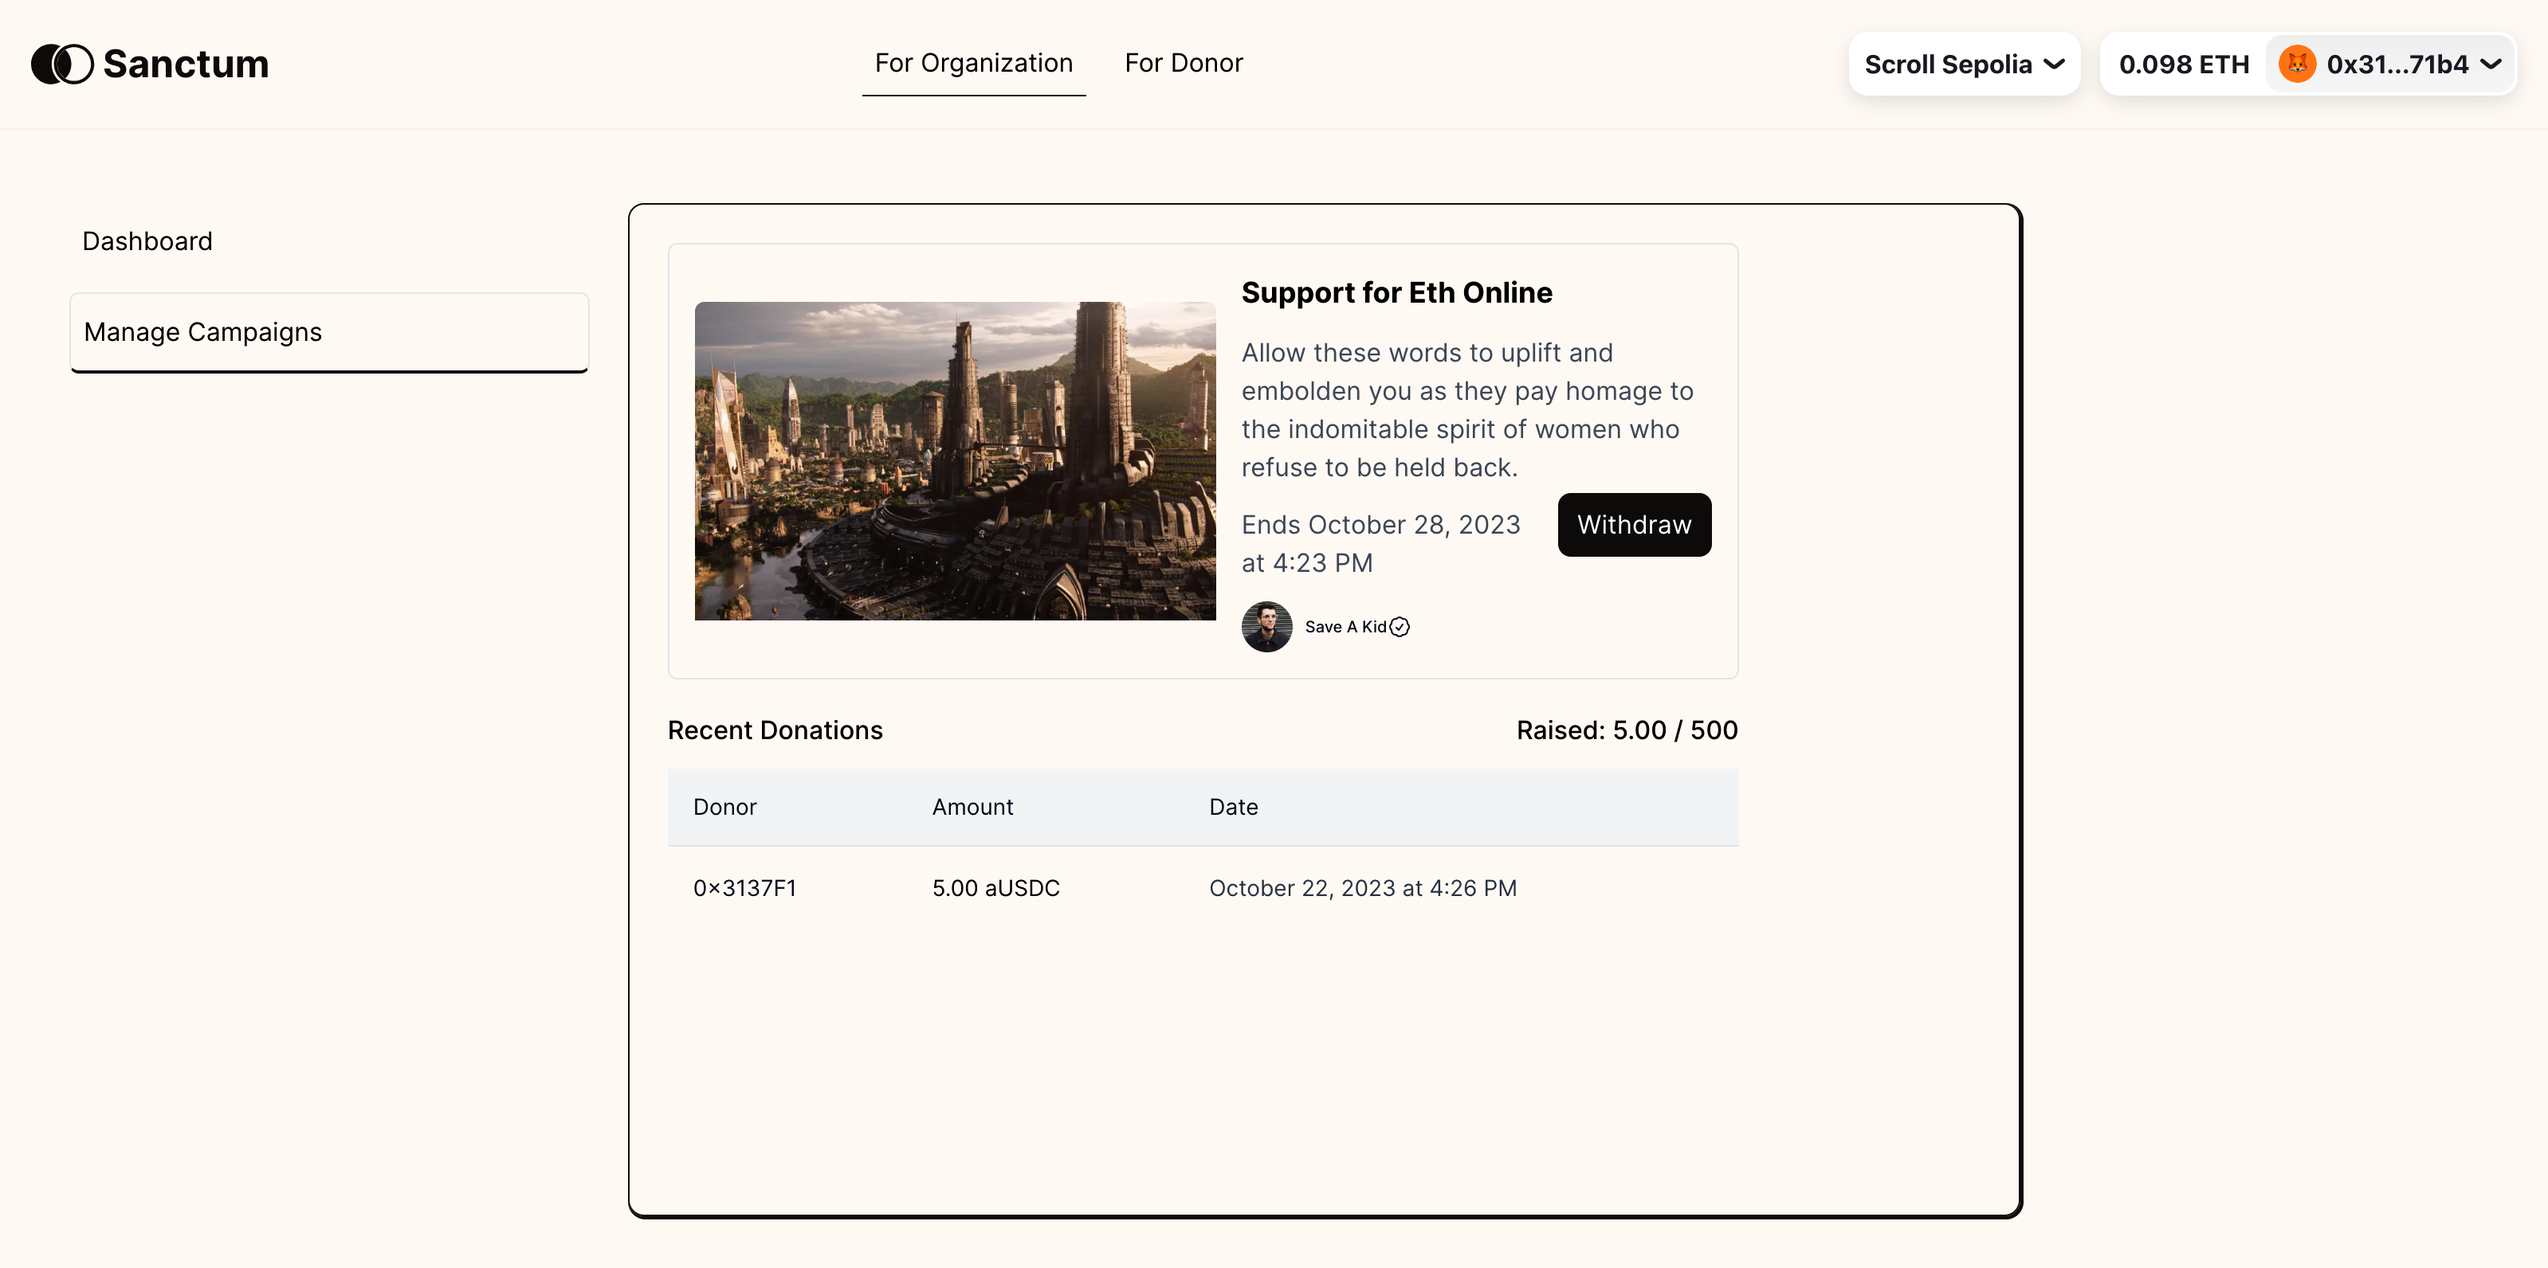
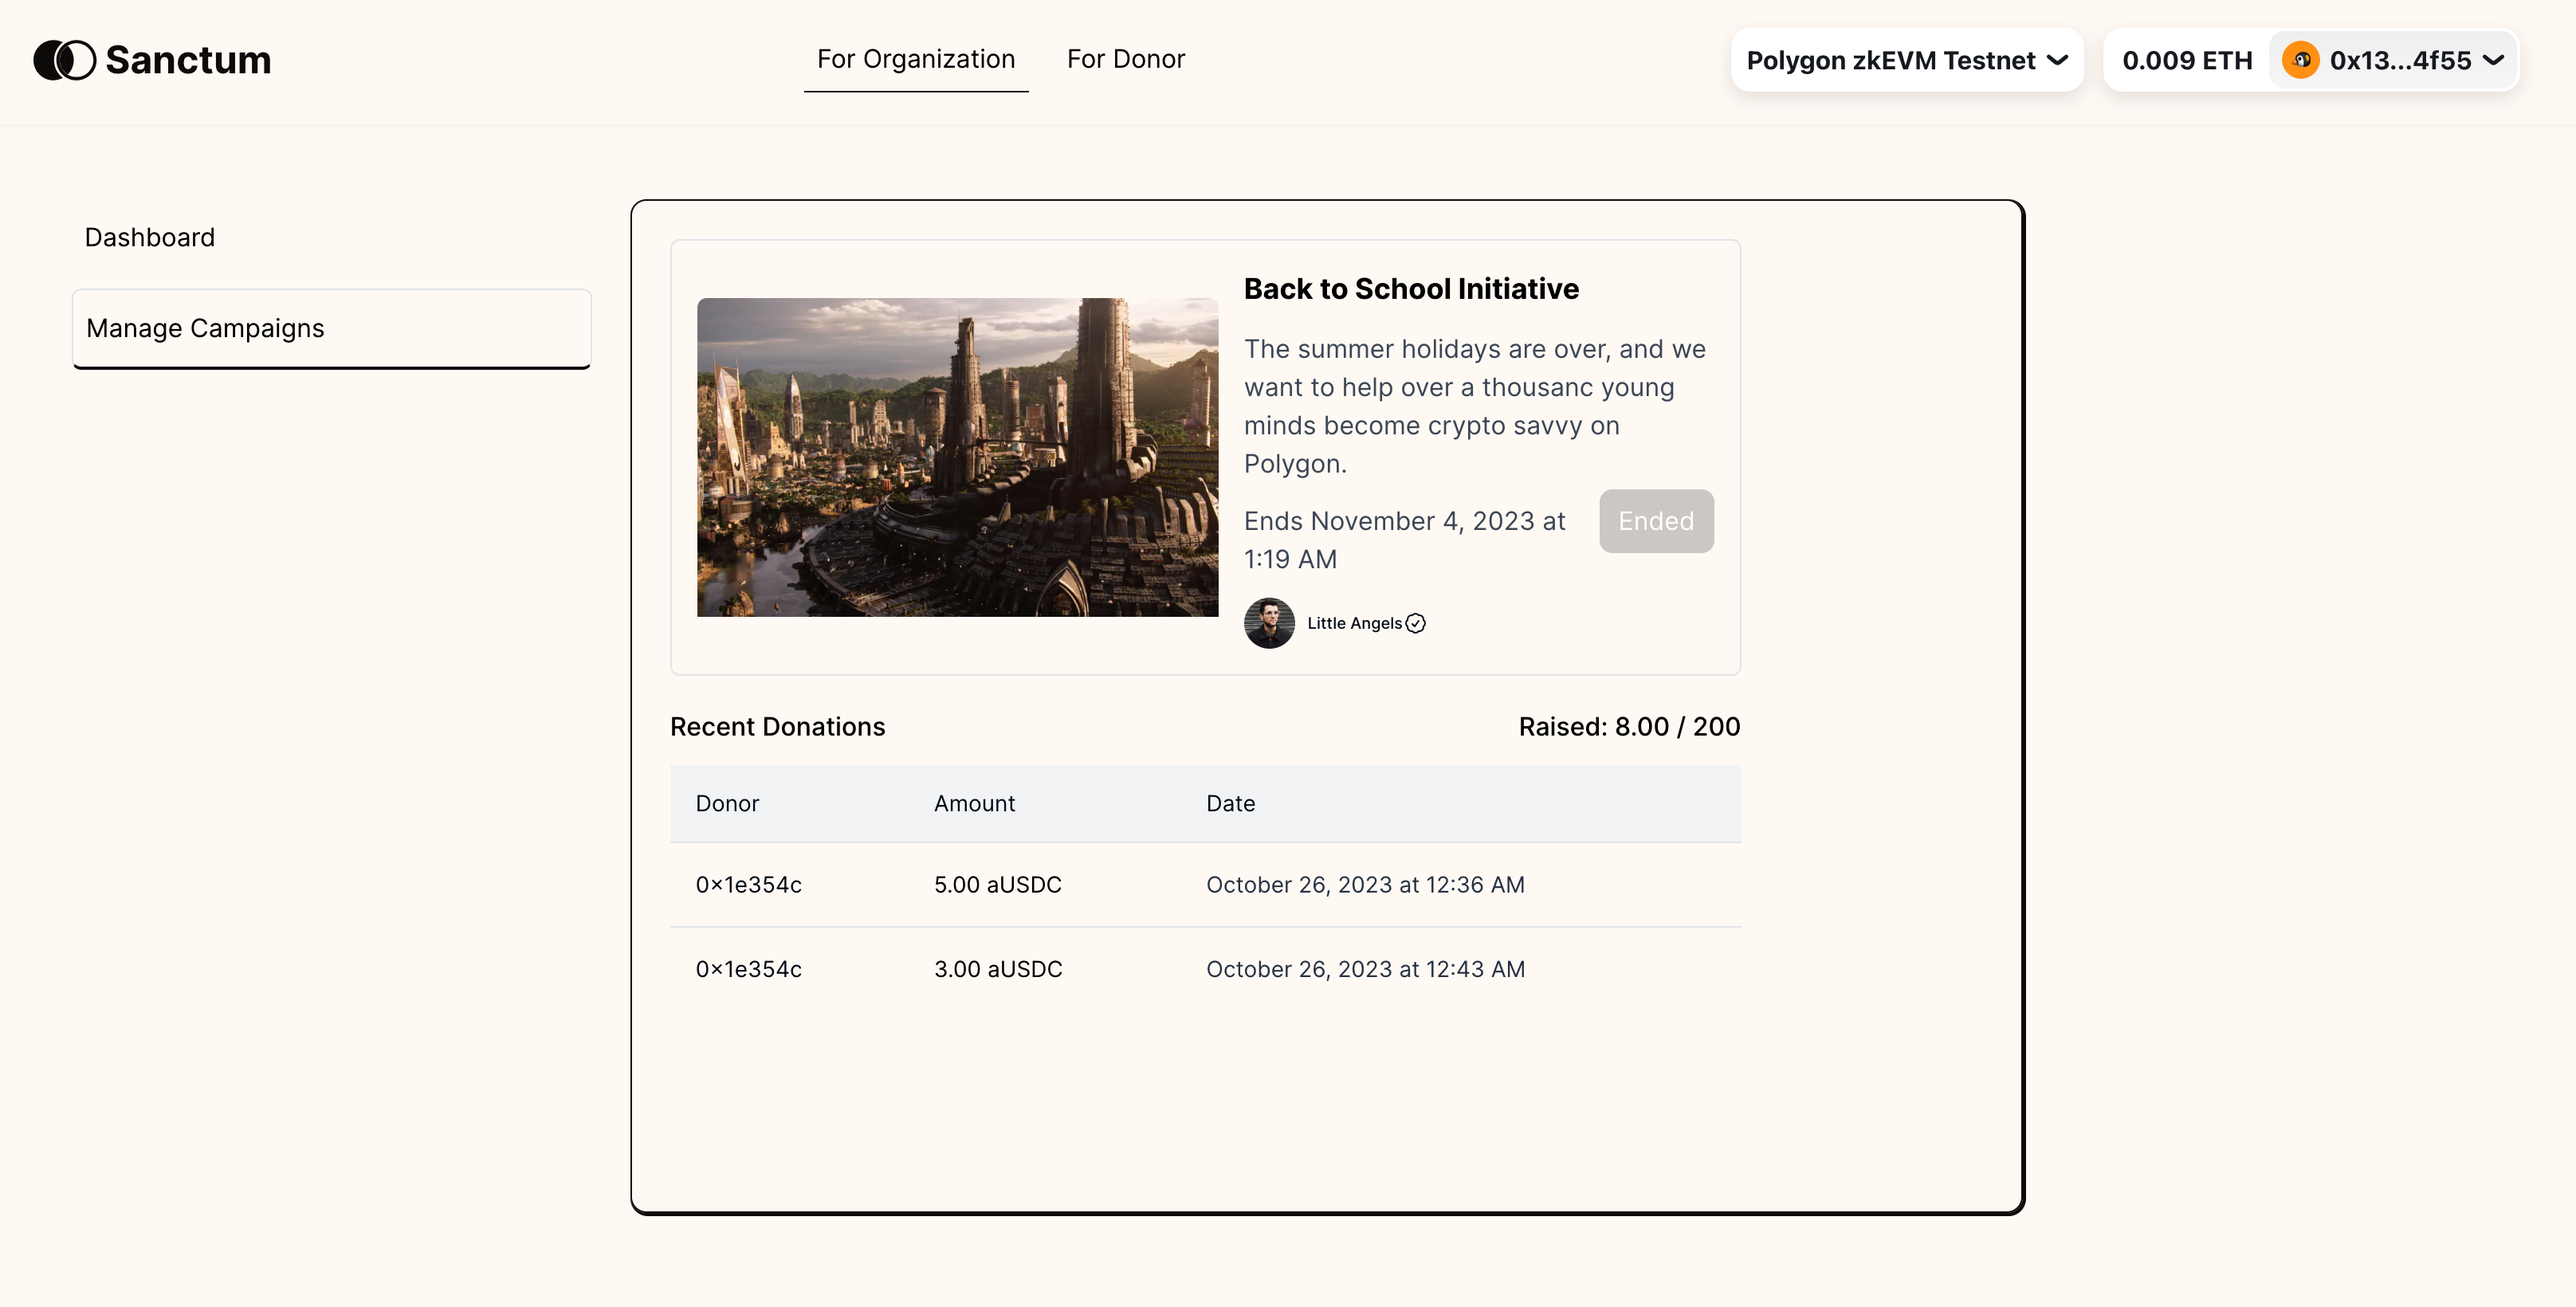
update: set for submission

diff --git a/README.md b/README.md
@@ -1,13 +1,13 @@
 # Sanctum X Polygon [DoraHacks]
 
-Live Demo - **For live the demo, check the ABOUT of this GitHub repo on the right pane** <br />
-Live Link - [Sanctum dApp](https://Sanctum-dapp.vercel.app) <br />
+Live Demo - [View on YouTube](https://www.youtube.com/watch?v=3U5IUajMpEc) <br />
+dAPP Link - [Sanctum dApp](https://Sanctum-dapp.vercel.app) <br />
 
 ## ✨ Description
 
-[Sanctum](https://sanctum-dapp.vercel.app) combines the speed of Polygon and the interoperability of Axelar to allow users to donate to any cause across multiple chains.
-
 SANCTUM creates a secure and transparent ecosystem for donors and NGOs. Users can donate from the blockchain of their choice, and Sanctum ensures it reaches the beneficiary wallet!
+
+[Sanctum](https://sanctum-dapp.vercel.app) combines the speed of Polygon and the interoperability of Axelar to allow users to donate to any cause across multiple chains.
 
 When users donate, they earn Sanctum tokens that allow them to participate in the dApp's future and community.
 
@@ -15,28 +15,17 @@ When users donate, they earn Sanctum tokens that allow them to participate in th
 
 ## 💻 How we built Sanctum
 
-We created and deployed 2 smart contracts on Polygon:
+We created and deployed 2 smart contracts on Polygon zkEVM,and terminals on Mumbai, CELO, and FVM:
 
-1. Sanctum 0x262848dA5f3eA7408d0ecF5E2DAa76e99338A74c - [View on mumbai-scan](https://gnosis-chiado.blockscout.com/address/0x262848dA5f3eA7408d0ecF5E2DAa76e99338A74c)
+1. Sanctum Polygon zkEVM- [view on zk-polygonscan](https://testnet-zkevm.polygonscan.com/address/0x242765946803a74dea7F45F55575DDd68eC4b0e5)
 
-2. SanctumToken 0x5A505E3f96bB4d322aaA9Eb81d82B330DB2dAA85 - [View on mumbai-scan](https://gnosis-chiado.blockscout.com/address/0x262848dA5f3eA7408d0ecF5E2DAa76e99338A74c)
+2. Santum Verification Badge - [view on zk-polygonscan](https://testnet-zkevm.polygonscan.com/token/0xa8cd45654da46056803e86d98dc6c697efe56fc1)
 
 Here are some of the recent transactions on Sanctum:
 
-1. Sanctum Polygon- https://sepolia.scrollscan.dev/address/0x60a9cf1599dd6b5be36b0cfb60323b6a68a0a03f
-2. Terminal Celo - https://calibration.filfox.info/en/address/t410fqlwkhc7il3e4bkkvl5agy4bvg6ba3oedzxnjeeq?t=1
-3. Terminal Fantom -https://calibration.filfox.info/en/address/t410fqlwkhc7il3e4bkkvl5agy4bvg6ba3oedzxnjeeq?t=1
-4. Campaign donation
+1.  Donation on Polygon zkEVM - [view on zk-polygonscan](https://testnet-zkevm.polygonscan.com/tx/0x1cd3e3589e4d200b740ec574bb59a0b6bf889f4aa02824114f56f80201bc42be)
+2.  Donation from Celo To Polygon zkEVM - [view donation tx](https://alfajores.celoscan.io/tx/0x04ae4399375a64096608950d2038afbee540e9b9154c4d3303b6289c6c77b8b2)
 
-   1. On Polygon - https://sepolia.scrollscan.dev/tx/0xdc3727d45917aa631f9603569422f937165a9abc68b8a8edeecc9f94880ac5ca
-   2. Celo To Polygon - https://testnet.axelarscan.io/gmp/0x520e607a2d79d3e64d56dd05b1be78b3e08dd3c840a68e7c800e97a8132b6d99
-
-5. Campaign fund Withdrawal - https://sepolia.scrollscan.dev/tx/0x9fdfdeb12896748ed2c8038f220a3a25638a1a0b04bd7a891ebcb50b8c0f7fb4
+3.  Campaign fund Withdrawal - [view on zk-polygonscan](https://testnet-zkevm.polygonscan.com/tx/0xead9be033c9f672b20efe32f92d6e8d92d66321bb8e6f3ad0002b3b5eefa2521)
 
 This is an original work by our team. We built our solution using: **`NextJs/Typescript`**, **`Wagmi`**, **`Rainbowkit`**, **`Prisma`**, **`TailwindCSS`**, **`Remix`**, **`PostgresSQL`** and **`Axelar SDK`**.
-
-## 🚀 Accomplishments that we're proud of
-
-🎉 We built Sanctum as a hybrid dApp. It implements PostgreSQL for transactional logic, while the core logic is powered by 2 smart contracts - Santum.sol and Terminal.sol.<br />
-🎉 Sanctum contract is deployed on Polygon for speed and security, while Terminal contracts are deployed on Celo, and Fantom (for the demo).. <br />
-🎉 We then implemented Axelar to route users' donations from the Terminal on other chains, to Sanctum on Polygon. This allow users easily donate irrespective of their chain! <br />
